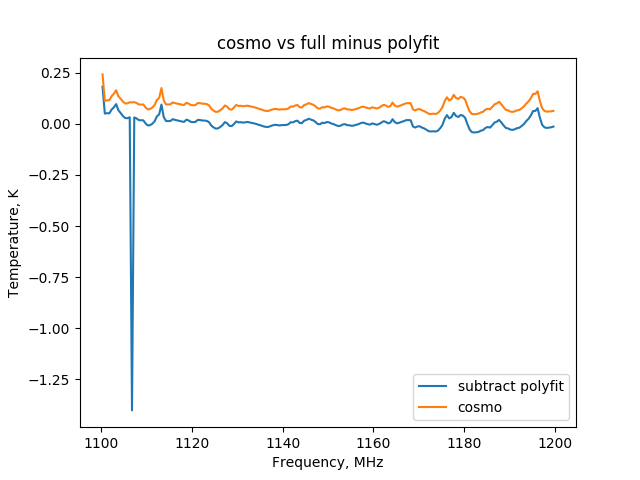
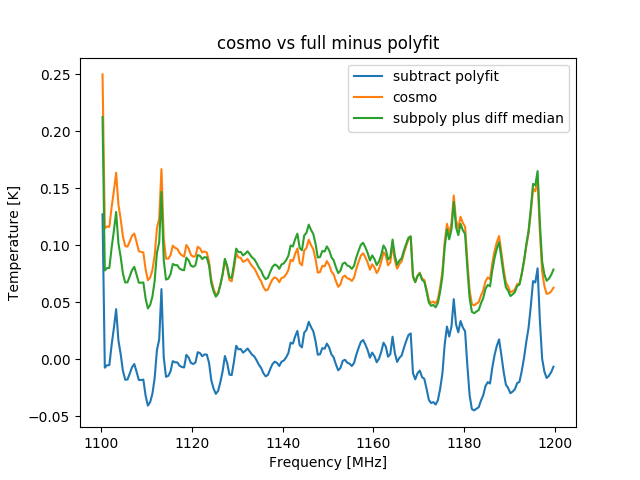
rerun simulation with new CRIME data and update the catalog

diff --git a/logbook/index.md b/logbook/index.md
@@ -2,6 +2,7 @@
 
 Please post relative links reverse chronologically. Write ups should go in the "[postings/](postings/)" folder and adhere to the yyyymmdd_name convention.
 
+* [Simulation Data](postings/20171215_simulation/index.md) - Dec 15, 2017
 * [Broadband Signal Tests](postings/20171215_Yagi_Diode/index.md) - Dec 15, 2017 (WT)
 * [S21 Measurements to test Gain Suppression](postings/20171213_Coupler_VNA/index.md) - Dec 13, 2017 (WT)
 * [Thermistor Update](postings/20171213_Thermistor_Update/index.md) - Dec 13, 2017 (WT)

diff --git a/logbook/postings/20171215_simulation/index.md b/logbook/postings/20171215_simulation/index.md
@@ -30,4 +30,4 @@ Cosmo data vs subtracted data
 
 ![cosmo_subpoly](cosmo_subpoly.png)
 
-The two curves are almost the same except for the glitch. The glitch is also visible at the same x location in the all field plot.
+All field data minus polynomial fit gets the subpoly data normalized to zero, while the mean value of cosmo data is not zero. I add a bias value to the subpoly data, which is equal to the median value of the difference. Note that the bias value is unknown in a real environment.
